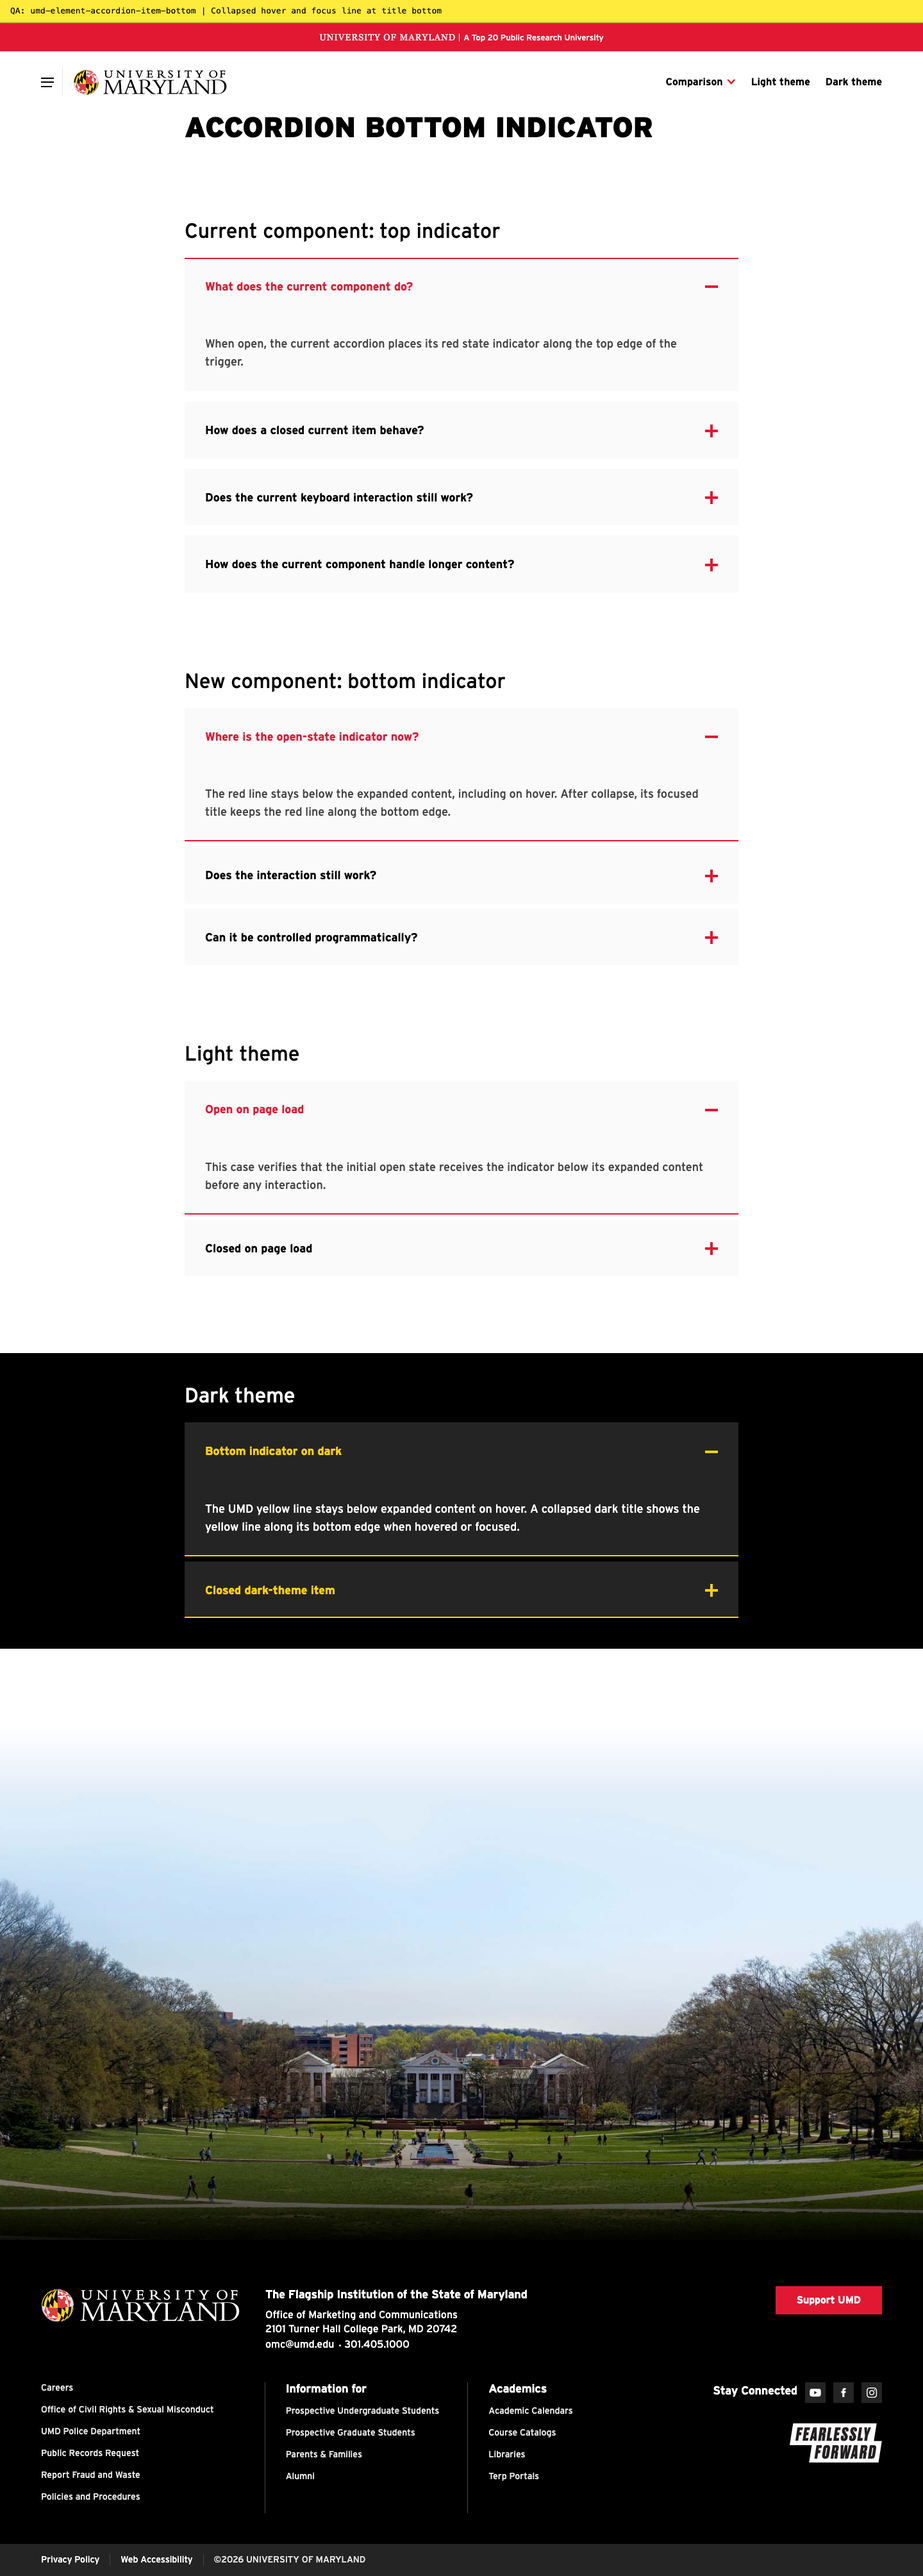
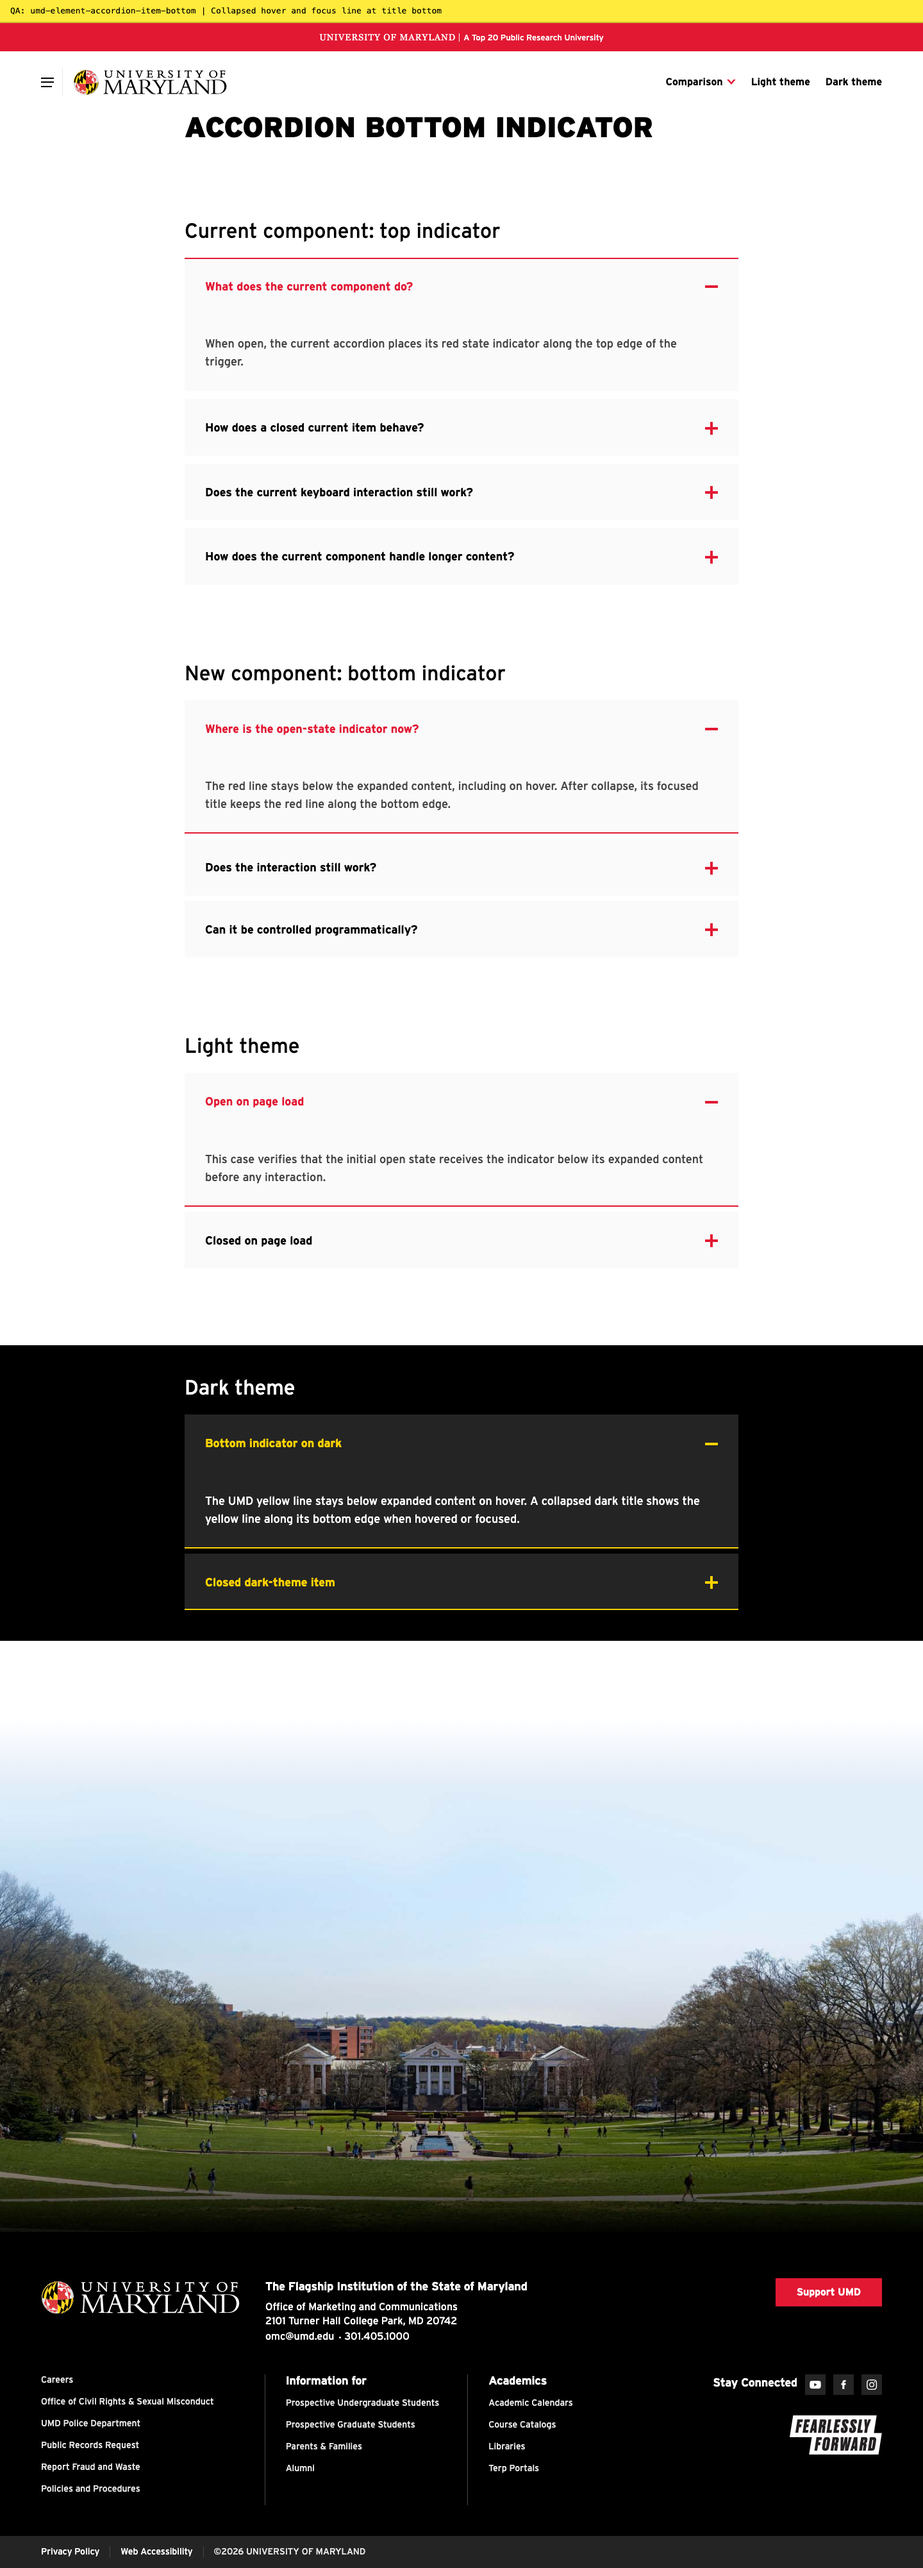
Tighten current accordion item spacing

diff --git a/qa/accordion-bottom.html b/qa/accordion-bottom.html
@@ -593,7 +593,7 @@
     <section id="current" class="umd-layout-vertical-landing">
       <div class="umd-layout-space-horizontal-small">
         <h2 class="umd-sans-extralarge">Current component: top indicator</h2>
-        <div style="display:grid;gap:var(--umd-space-min);margin-top:24px;">
+        <div style="display:grid;gap:4px;margin-top:24px;">
           <umd-element-accordion-item data-visual-open="true">
             <p slot="headline">What does the current component do?</p>
             <div slot="text">

diff --git a/test/accordion-bottom.test.js b/test/accordion-bottom.test.js
@@ -57,4 +57,8 @@ test('QA page includes current and new accordion comparisons', () => {
     (qaPage.match(/<umd-element-accordion-item(?:\s|>)/g) ?? []).length,
     4,
   );
+  assert.match(
+    qaPage,
+    /id="current"[\s\S]*?display:grid;gap:4px/,
+  );
 });
